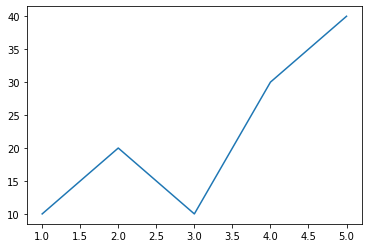
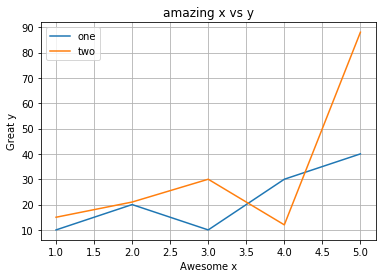
Add better line chart

Changed region(s): [[0.0, 0.0, 1.0, 0.9879]]

diff --git a/Module4/PythonPandas.md b/Module4/PythonPandas.md
@@ -16,7 +16,7 @@ Download and work through this [notebook](https://github.com/bnorthan/inf-428-da
 
 ### Line Charts
 
-Line charts are useful to show trends
+Line charts are useful to show trends.  Line charts show the evolution of a dependent variable on the y axis as a function of x.  For example you could show the evolution of a variable as a function of time, like the number of sales your company has made per time perid. This [notebook](https://github.com/bnorthan/inf-428-data-analytics-online/blob/master/python/notebooks/visualization/BasicPython.ipynb) shows how to create, add legends, lable and a title and add a grid to a line chart.  The basic concepts are applicable to any type of chart. 
 
 <img src="linechart.png" width="300">
 
